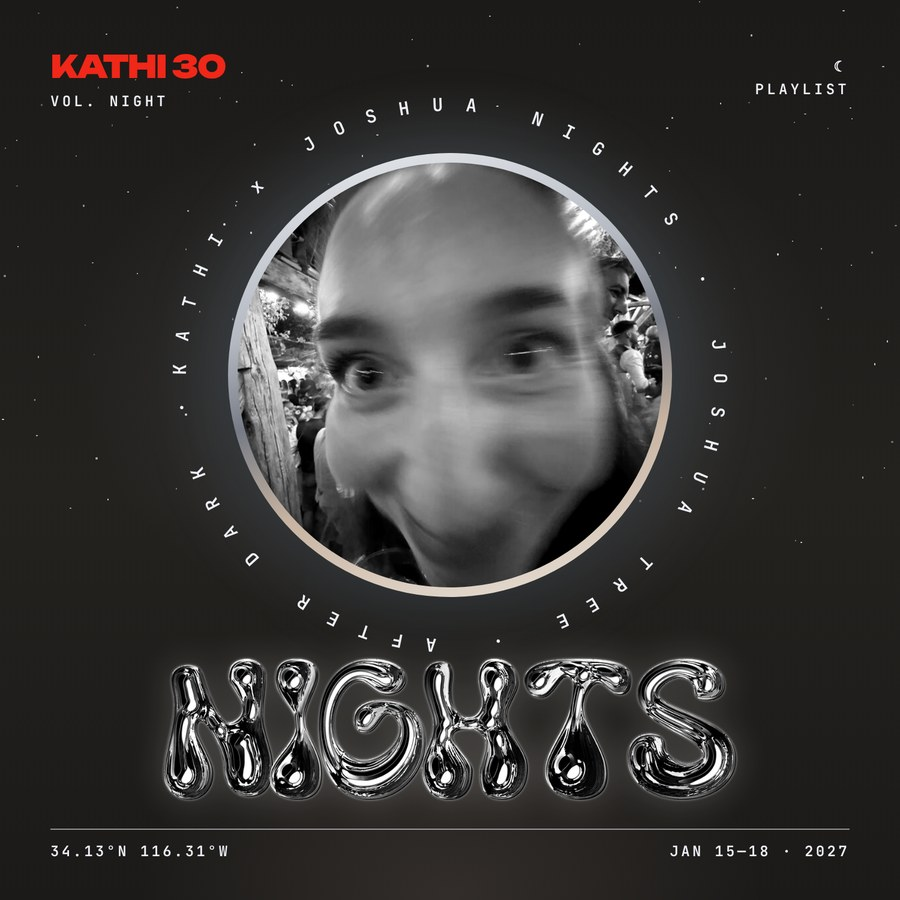
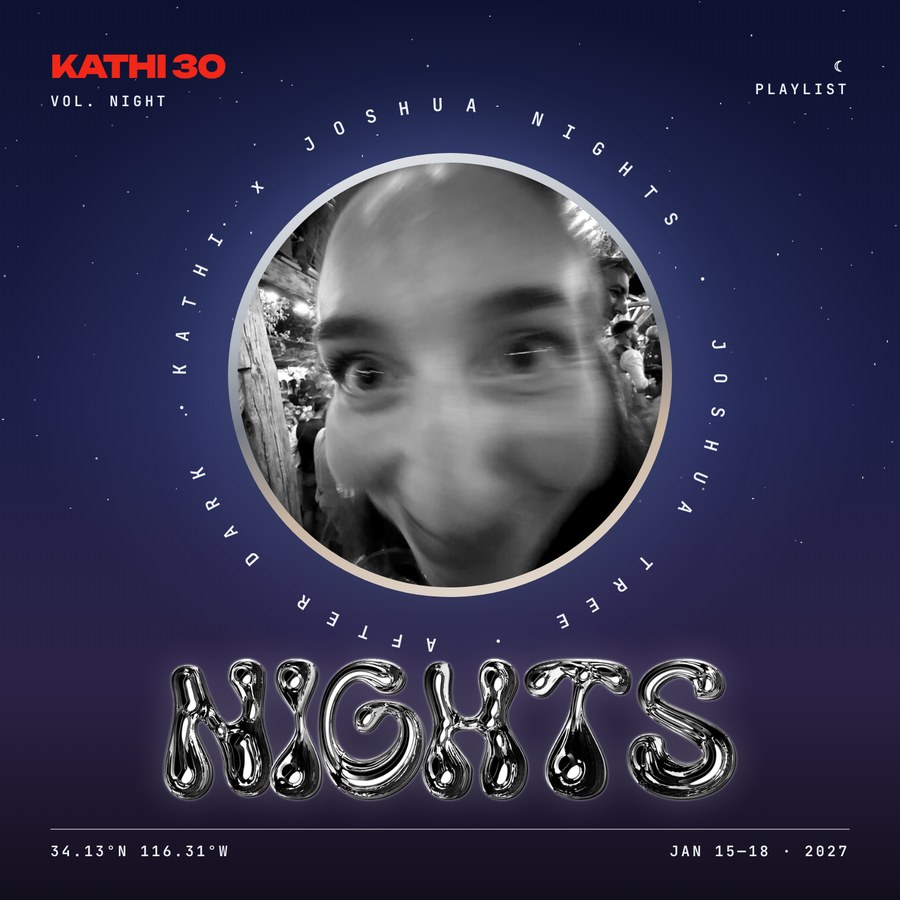
Back to the blue night cover
Claude-Session: https://claude.ai/code/session_015srq9B7aamxsEMEASfp4Nc

diff --git a/site/index.html b/site/index.html
@@ -224,7 +224,7 @@
         <span class="pl-title chrome-soft-text">kathi x joshua nights</span>
         <span class="body16">Dinner → dance floor → 2am singalongs. Bangers only, guilty pleasures encouraged.</span>
         <a data-href="nightPlaylistUrl" target="_blank" rel="noopener" class="btn-sm btn-chrome mono self-start">add your song →</a>
-        <a data-href="nightPlaylistUrl" target="_blank" rel="noopener" class="cover"><img src="assets/cover-nights.jpg?v=31" alt="Night playlist cover" loading="lazy" width="800" height="800"></a>
+        <a data-href="nightPlaylistUrl" target="_blank" rel="noopener" class="cover"><img src="assets/cover-nights.jpg?v=32" alt="Night playlist cover" loading="lazy" width="800" height="800"></a>
       </div>
     </div>
   </section>
